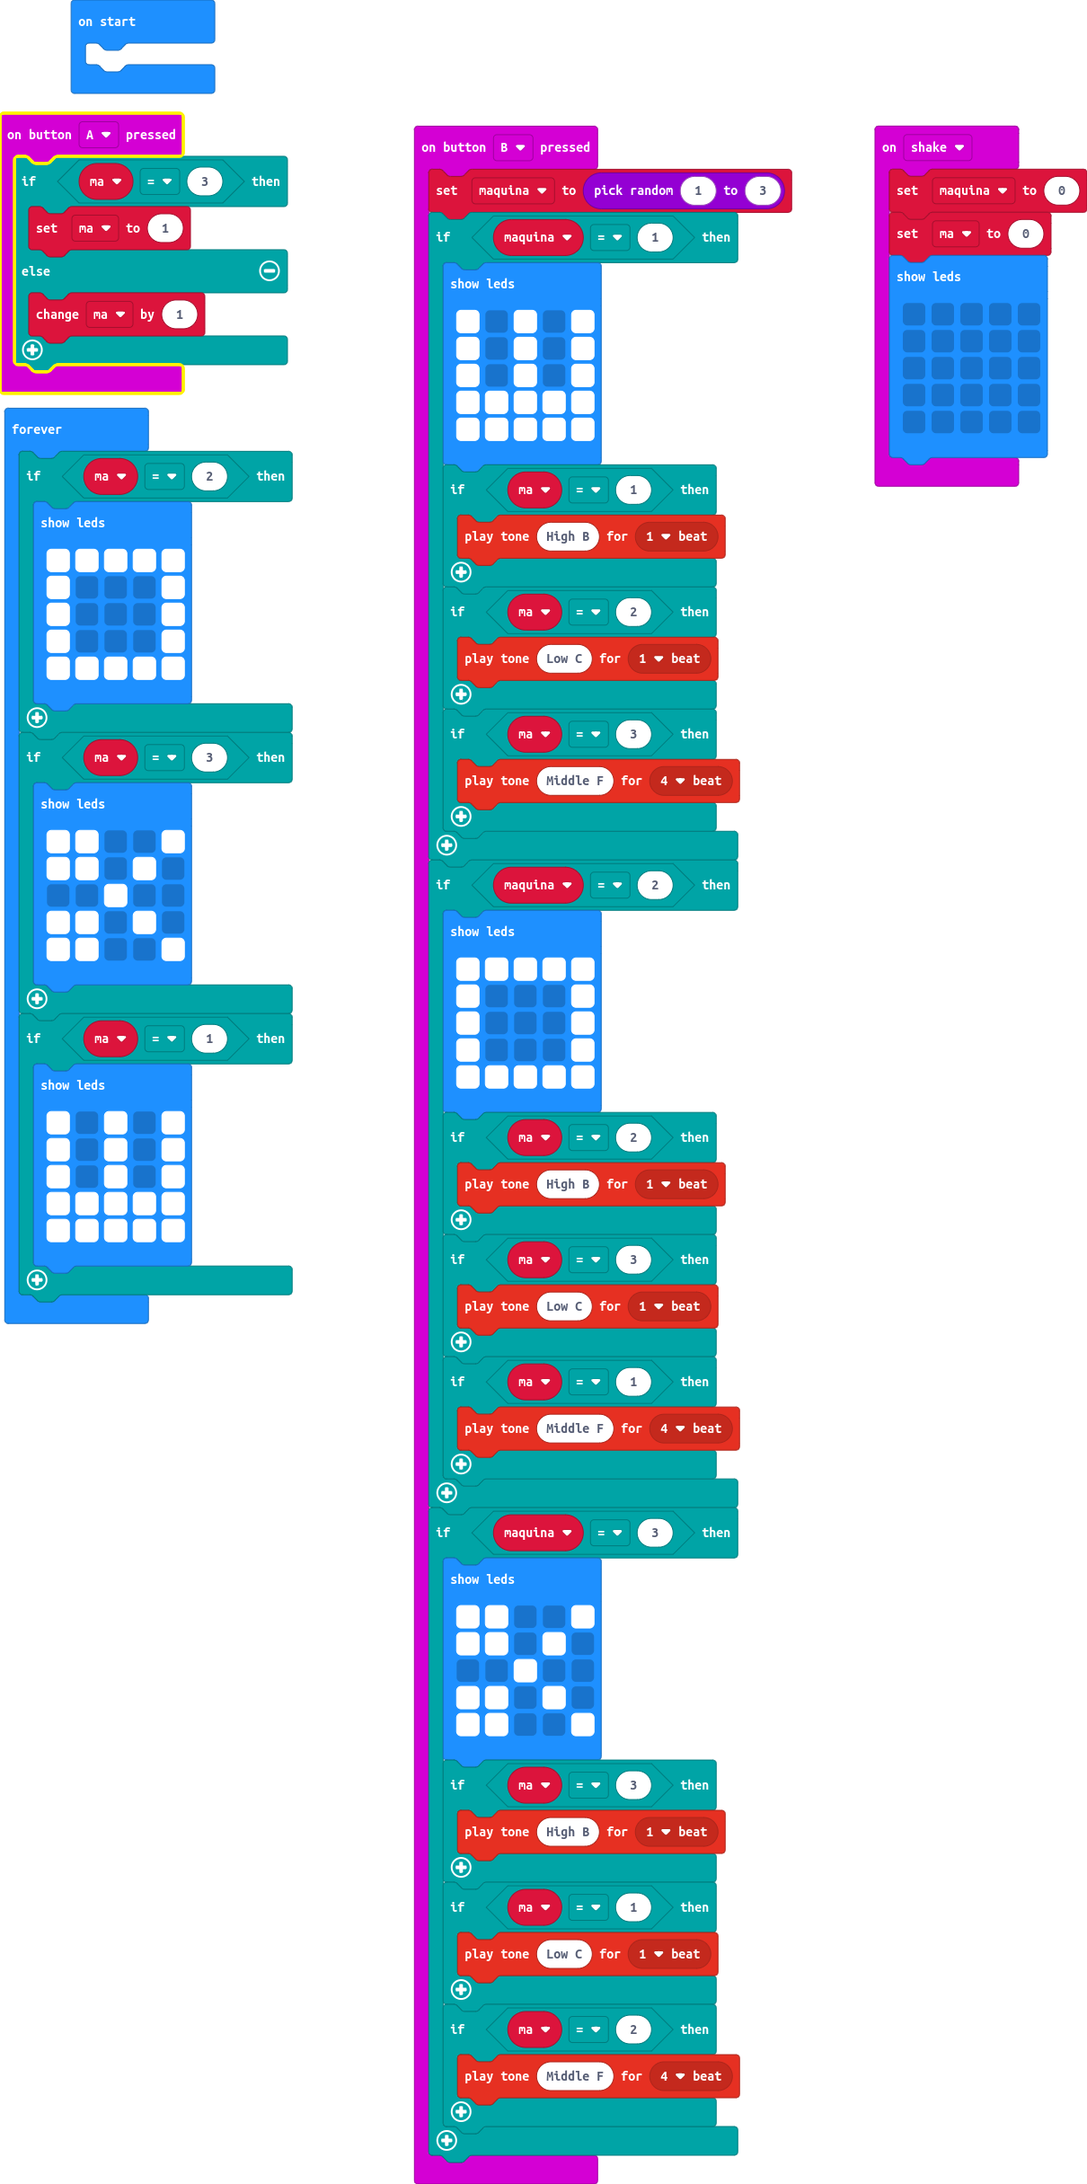
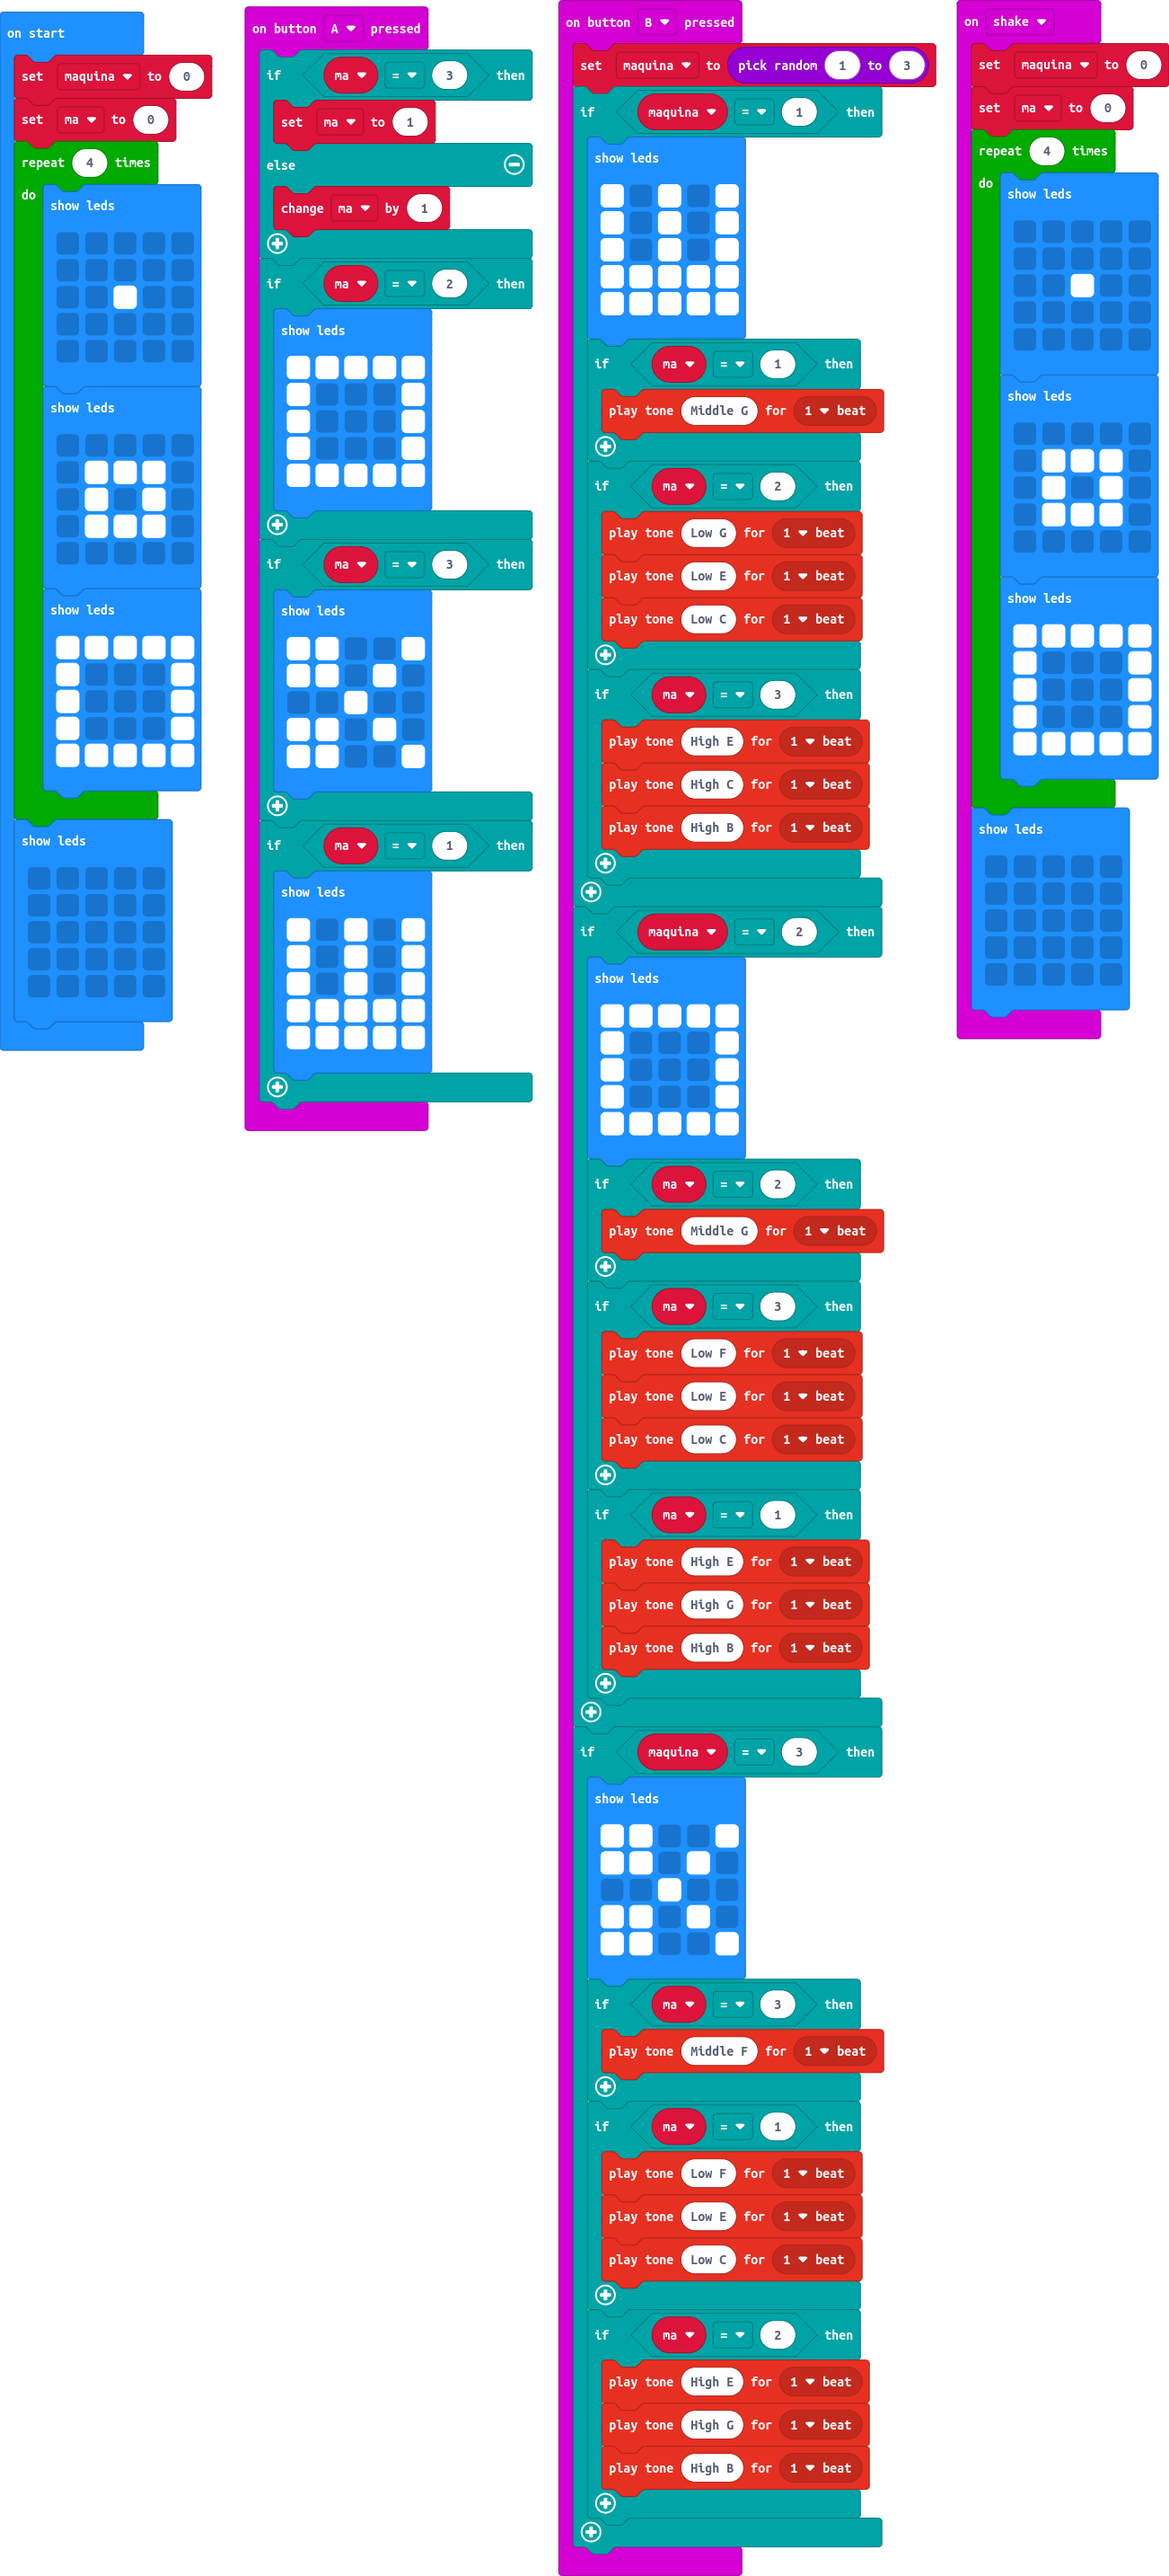
Some nicier animations

diff --git a/main.ts b/main.ts
@@ -1,81 +1,9 @@
-let ma = 0
-let maquina = 0
 input.onButtonPressed(Button.A, function () {
     if (ma == 3) {
         ma = 1
     } else {
         ma += 1
     }
-})
-input.onButtonPressed(Button.B, function () {
-    maquina = randint(1, 3)
-    if (maquina == 1) {
-        basic.showLeds(`
-            # . # . #
-            # . # . #
-            # . # . #
-            # # # # #
-            # # # # #
-            `)
-        if (ma == 1) {
-            music.playTone(988, music.beat(BeatFraction.Whole))
-        }
-        if (ma == 2) {
-            music.playTone(131, music.beat(BeatFraction.Whole))
-        }
-        if (ma == 3) {
-            music.playTone(349, music.beat(BeatFraction.Breve))
-        }
-    }
-    if (maquina == 2) {
-        basic.showLeds(`
-            # # # # #
-            # . . . #
-            # . . . #
-            # . . . #
-            # # # # #
-            `)
-        if (ma == 2) {
-            music.playTone(988, music.beat(BeatFraction.Whole))
-        }
-        if (ma == 3) {
-            music.playTone(131, music.beat(BeatFraction.Whole))
-        }
-        if (ma == 1) {
-            music.playTone(349, music.beat(BeatFraction.Breve))
-        }
-    }
-    if (maquina == 3) {
-        basic.showLeds(`
-            # # . . #
-            # # . # .
-            . . # . .
-            # # . # .
-            # # . . #
-            `)
-        if (ma == 3) {
-            music.playTone(988, music.beat(BeatFraction.Whole))
-        }
-        if (ma == 1) {
-            music.playTone(131, music.beat(BeatFraction.Whole))
-        }
-        if (ma == 2) {
-            music.playTone(349, music.beat(BeatFraction.Breve))
-        }
-    }
-})
-input.onGesture(Gesture.Shake, function () {
-    maquina = 0
-    ma = 0
-    basic.showLeds(`
-        . . . . .
-        . . . . .
-        . . . . .
-        . . . . .
-        . . . . .
-        `)
-})
-basic.forever(function () {
     if (ma == 2) {
         basic.showLeds(`
             # # # # #
@@ -103,4 +31,144 @@ basic.forever(function () {
             # # # # #
             `)
     }
+})
+input.onButtonPressed(Button.B, function () {
+    maquina = randint(1, 3)
+    if (maquina == 1) {
+        basic.showLeds(`
+            # . # . #
+            # . # . #
+            # . # . #
+            # # # # #
+            # # # # #
+            `)
+        if (ma == 1) {
+            music.playTone(392, music.beat(BeatFraction.Whole))
+        }
+        if (ma == 2) {
+            music.playTone(196, music.beat(BeatFraction.Whole))
+            music.playTone(165, music.beat(BeatFraction.Whole))
+            music.playTone(131, music.beat(BeatFraction.Whole))
+        }
+        if (ma == 3) {
+            music.playTone(659, music.beat(BeatFraction.Whole))
+            music.playTone(523, music.beat(BeatFraction.Whole))
+            music.playTone(988, music.beat(BeatFraction.Whole))
+        }
+    }
+    if (maquina == 2) {
+        basic.showLeds(`
+            # # # # #
+            # . . . #
+            # . . . #
+            # . . . #
+            # # # # #
+            `)
+        if (ma == 2) {
+            music.playTone(392, music.beat(BeatFraction.Whole))
+        }
+        if (ma == 3) {
+            music.playTone(175, music.beat(BeatFraction.Whole))
+            music.playTone(165, music.beat(BeatFraction.Whole))
+            music.playTone(131, music.beat(BeatFraction.Whole))
+        }
+        if (ma == 1) {
+            music.playTone(659, music.beat(BeatFraction.Whole))
+            music.playTone(784, music.beat(BeatFraction.Whole))
+            music.playTone(988, music.beat(BeatFraction.Whole))
+        }
+    }
+    if (maquina == 3) {
+        basic.showLeds(`
+            # # . . #
+            # # . # .
+            . . # . .
+            # # . # .
+            # # . . #
+            `)
+        if (ma == 3) {
+            music.playTone(349, music.beat(BeatFraction.Whole))
+        }
+        if (ma == 1) {
+            music.playTone(175, music.beat(BeatFraction.Whole))
+            music.playTone(165, music.beat(BeatFraction.Whole))
+            music.playTone(131, music.beat(BeatFraction.Whole))
+        }
+        if (ma == 2) {
+            music.playTone(659, music.beat(BeatFraction.Whole))
+            music.playTone(784, music.beat(BeatFraction.Whole))
+            music.playTone(988, music.beat(BeatFraction.Whole))
+        }
+    }
+})
+input.onGesture(Gesture.Shake, function () {
+    maquina = 0
+    ma = 0
+    for (let index = 0; index < 4; index++) {
+        basic.showLeds(`
+            . . . . .
+            . . . . .
+            . . # . .
+            . . . . .
+            . . . . .
+            `)
+        basic.showLeds(`
+            . . . . .
+            . # # # .
+            . # . # .
+            . # # # .
+            . . . . .
+            `)
+        basic.showLeds(`
+            # # # # #
+            # . . . #
+            # . . . #
+            # . . . #
+            # # # # #
+            `)
+    }
+    basic.showLeds(`
+        . . . . .
+        . . . . .
+        . . . . .
+        . . . . .
+        . . . . .
+        `)
+})
+let ma = 0
+let maquina = 0
+maquina = 0
+ma = 0
+for (let index = 0; index < 4; index++) {
+    basic.showLeds(`
+        . . . . .
+        . . . . .
+        . . # . .
+        . . . . .
+        . . . . .
+        `)
+    basic.showLeds(`
+        . . . . .
+        . # # # .
+        . # . # .
+        . # # # .
+        . . . . .
+        `)
+    basic.showLeds(`
+        # # # # #
+        # . . . #
+        # . . . #
+        # . . . #
+        # # # # #
+        `)
+}
+basic.showLeds(`
+    . . . . .
+    . . . . .
+    . . . . .
+    . . . . .
+    . . . . .
+    `)
+basic.forever(function () {
+	
 })
